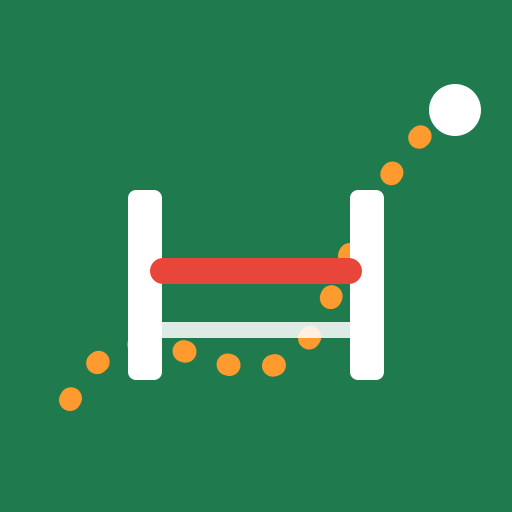
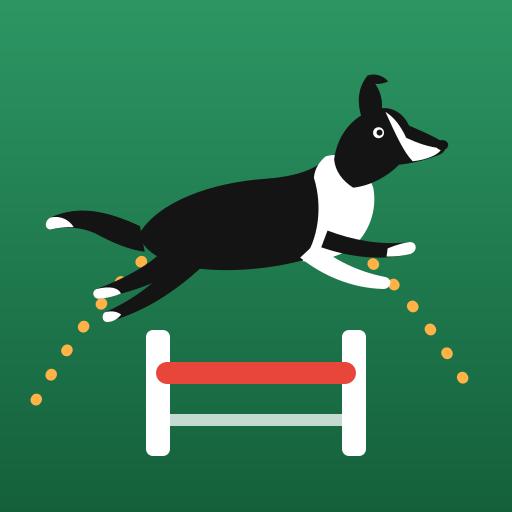
Nuova icona: border collie che salta un ostacolo
Claude-Session: https://claude.ai/code/session_01F7Frc8nybT1cu4vg1FUyDw

diff --git a/sw.js b/sw.js
@@ -1,5 +1,5 @@
-const CACHE='agility-v3';
-const FILES=['./','./index.html','./manifest.webmanifest','./icon-192.png','./icon-512.png','./apple-touch-icon.png','./library.json','./jspdf.umd.min.js'];
+const CACHE='agility-v4';
+const FILES=['./','./index.html','./manifest.webmanifest','./icon-192.png','./icon-512.png','./apple-touch-icon.png','./icon-maskable-512.png','./library.json','./jspdf.umd.min.js'];
 self.addEventListener('install',e=>{e.waitUntil(caches.open(CACHE).then(c=>c.addAll(FILES)).then(()=>self.skipWaiting()))});
 self.addEventListener('activate',e=>{e.waitUntil(caches.keys().then(k=>Promise.all(k.filter(n=>n!==CACHE).map(n=>caches.delete(n)))).then(()=>self.clients.claim()))});
 // rete prima (così gli aggiornamenti arrivano subito), cache se offline

diff --git a/index.html b/index.html
@@ -9,9 +9,9 @@
 <meta name="mobile-web-app-capable" content="yes">
 <meta name="apple-mobile-web-app-status-bar-style" content="default">
 <meta name="apple-mobile-web-app-title" content="Agility">
-<link rel="manifest" href="manifest.webmanifest">
-<link rel="apple-touch-icon" href="apple-touch-icon.png">
-<link rel="icon" type="image/png" href="icon-192.png">
+<link rel="manifest" href="manifest.webmanifest?v=2">
+<link rel="apple-touch-icon" href="apple-touch-icon.png?v=2">
+<link rel="icon" type="image/png" href="icon-192.png?v=2">
 <style>
 :root{--bg:#f2f4f0;--card:#fff;--ink:#1d2420;--muted:#6b756f;--line:#dfe4dd;--pri:#1f7a4d;--pri2:#e9f5ee;--dan:#c8372d;--acc:#ff7a00}
 *{box-sizing:border-box;-webkit-tap-highlight-color:transparent}
